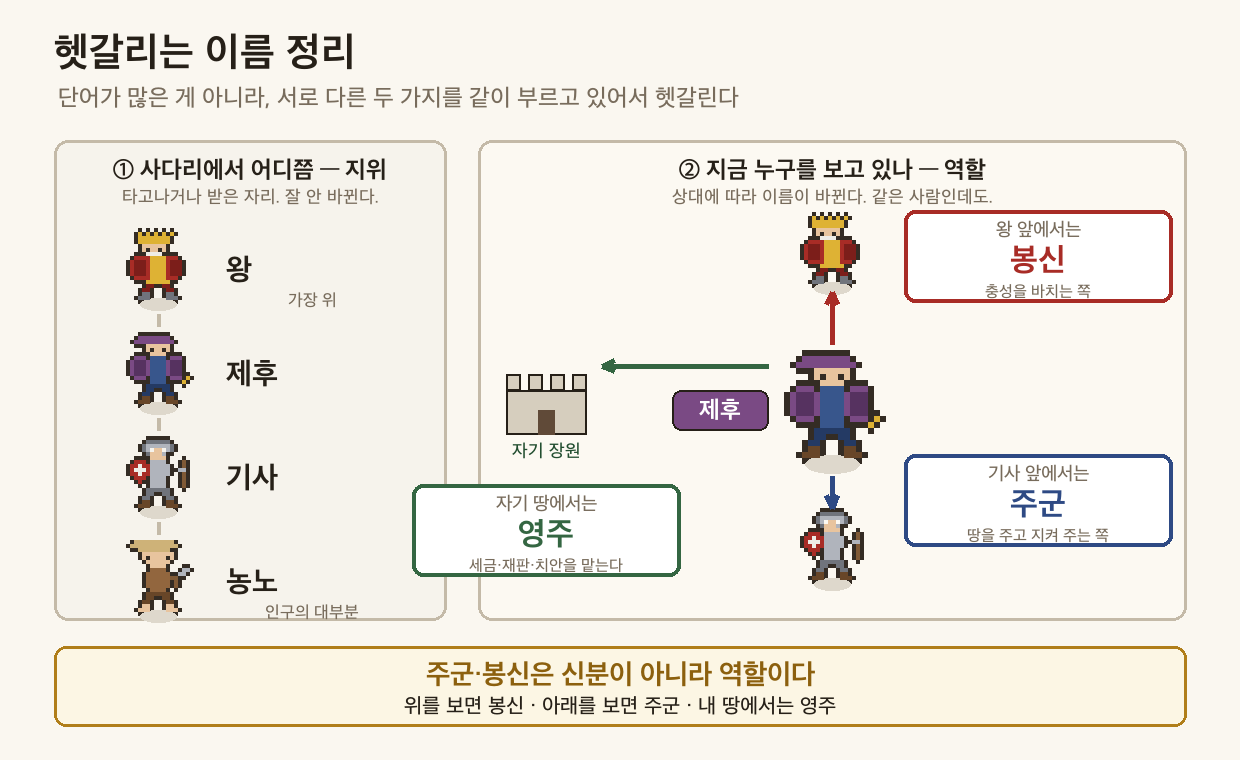
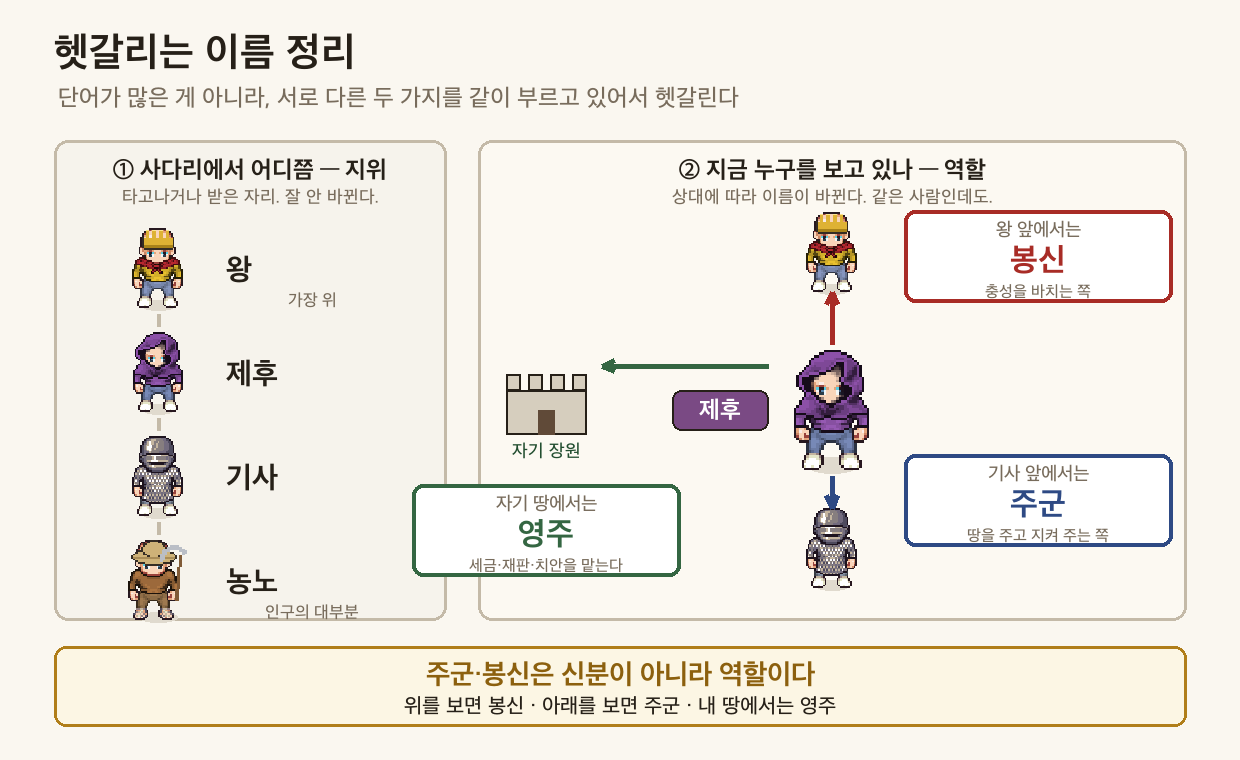
3-3-1 도트 전면 교체 — 자작 18x20 → LPC 스프라이트 조합(OGA-BY/CC0 택일분만) · 캐릭터 8종 · 소품은 자작 · 라이선스 표기

diff --git a/worksheets/3-3-1_봉건사회성립_개념편.html b/worksheets/3-3-1_봉건사회성립_개념편.html
@@ -387,6 +387,9 @@ blockquote {
 <p>그리고 마지막 줄에는 이 질문에 답해 줘 — <strong>"나는 이 거래가 공평하다고 생각하는가?"</strong></p>
 <br>
 <textarea class="essay-input" data-id="essay-1" data-label="💭 더 생각해 보기" placeholder="자기 생각을 자유롭게 써 보세요"></textarea>
+<br>
+<hr>
+<p><span style="font-size:0.8em;color:#888">도식 속 인물 그림 — Liberated Pixel Cup(Universal LPC Spritesheet) 레이어 조합 · OGA-BY 3.0 / CC0 · 왕관·낫·도끼·밀짚모자·원형 방패는 자작</span></p>
 </div>
 <script>
 const TB=15, TOX=5, GT=20;
